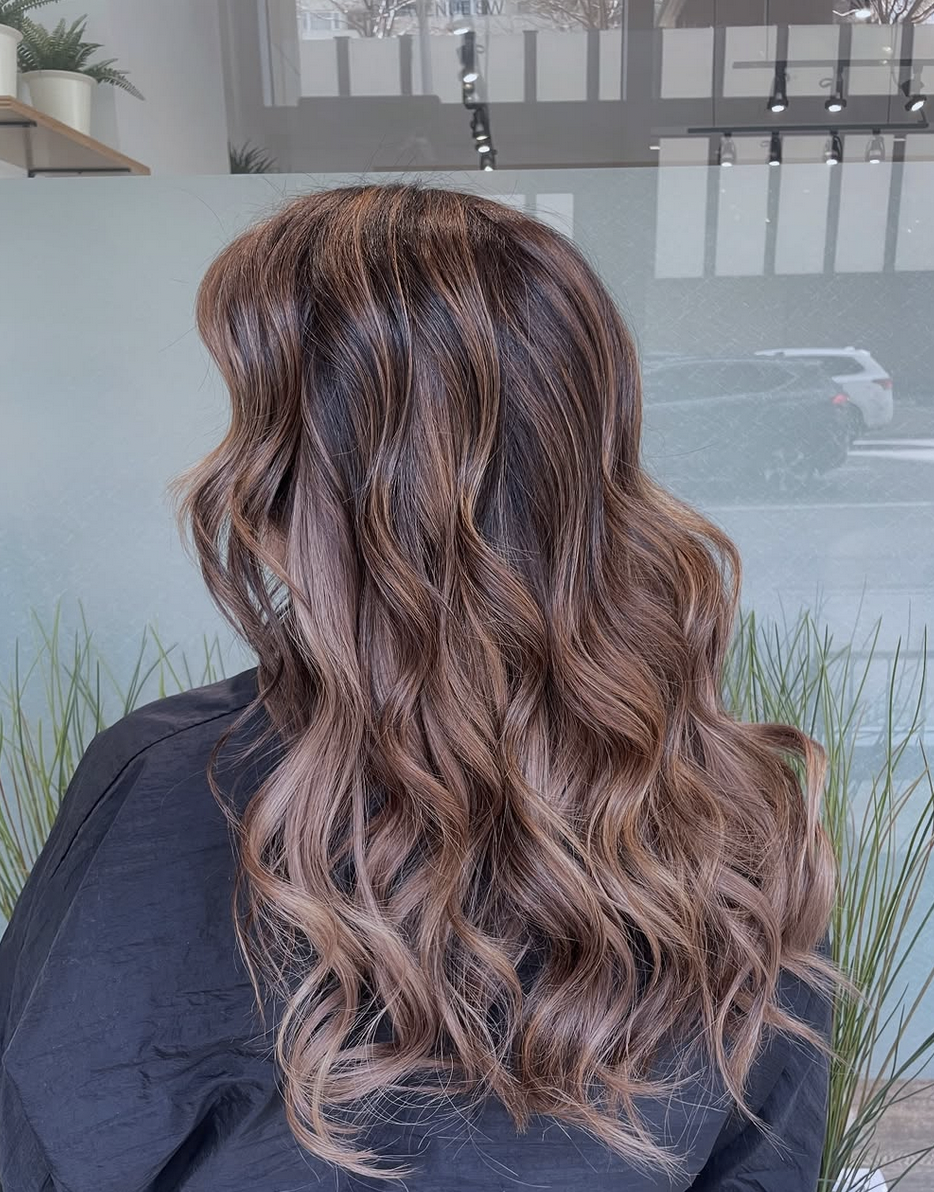
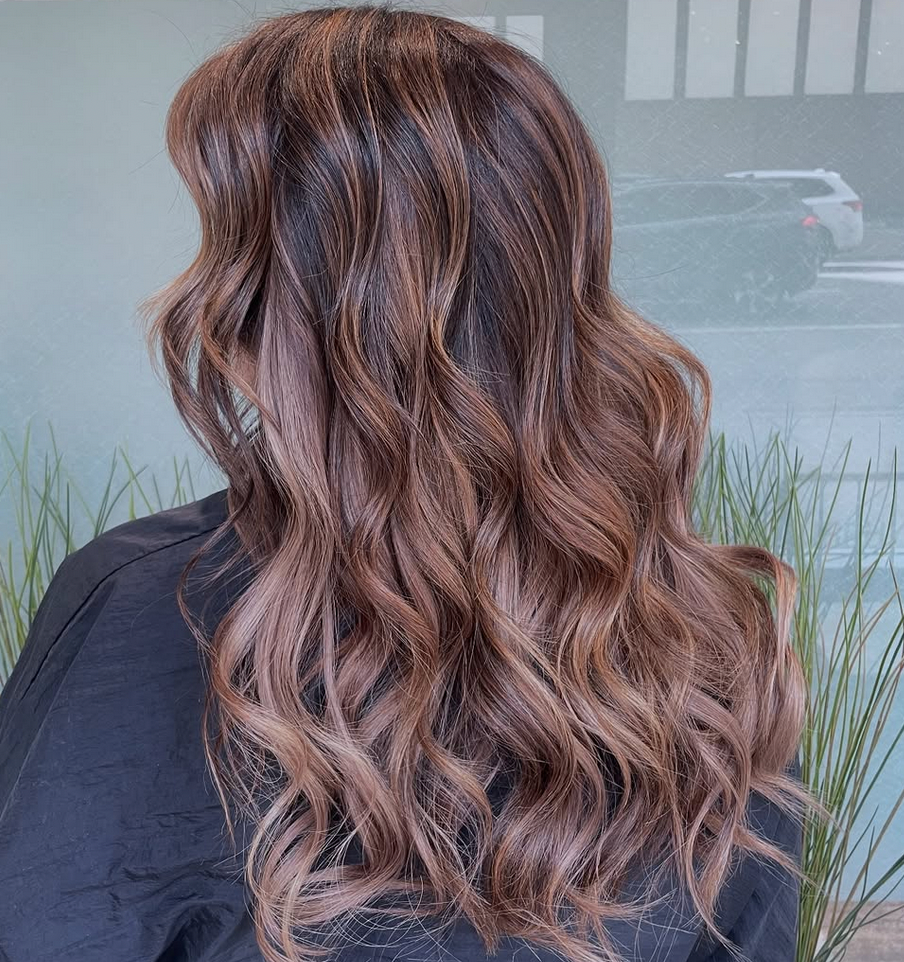
small changes

diff --git a/index.html b/index.html
@@ -78,7 +78,7 @@
 
       <section id="banner">
         <div class="inner">
-          <h2>Parallel Lines<br />Hair Studio</h2>
+          <h2>Parallel Lines <br />Hair&nbsp;Studio</h2>
           <p>Good Hair Days Only<br /></p>
           <ul class="actions special">
             <li>
@@ -107,7 +107,7 @@
                 services that keep you looking your best year-round.
               </p>
             </div>
-            <div class="row">
+            <div class="row aln-center">
               <div class="col">
                 <img
                   class="img"
@@ -122,7 +122,15 @@
                   alt="Special Events"
                   height="310" /><br /><br />
               </div>
+              <div class="col">
+                <img
+                  class="img"
+                  src="images/hairpic3.png"
+                  alt="Special Events"
+                  height="310" /><br /><br />
+              </div>
             </div>
+            <p></p>
             <a href="services.html" class="button primary">Services</a>
           </header>
         </div>

diff --git a/assets/css/main.css b/assets/css/main.css
@@ -2922,7 +2922,7 @@ button:disabled,
 }
 
 .wrapper.style1 {
-  background-color: #e9e8ea;
+  background-color: #ffffff;
   color: #a4b07a;
 }
 
@@ -3973,7 +3973,7 @@ body.is-preload #banner:after {
 
 .review-card {
   flex: 0 0 calc(50% - 20px);
-  background: #e9e8ea;
+  background: #ffffff;
   padding: 40px;
   box-shadow: 0 10px 25px rgba(0, 0, 0, 0.08);
   text-align: left;
